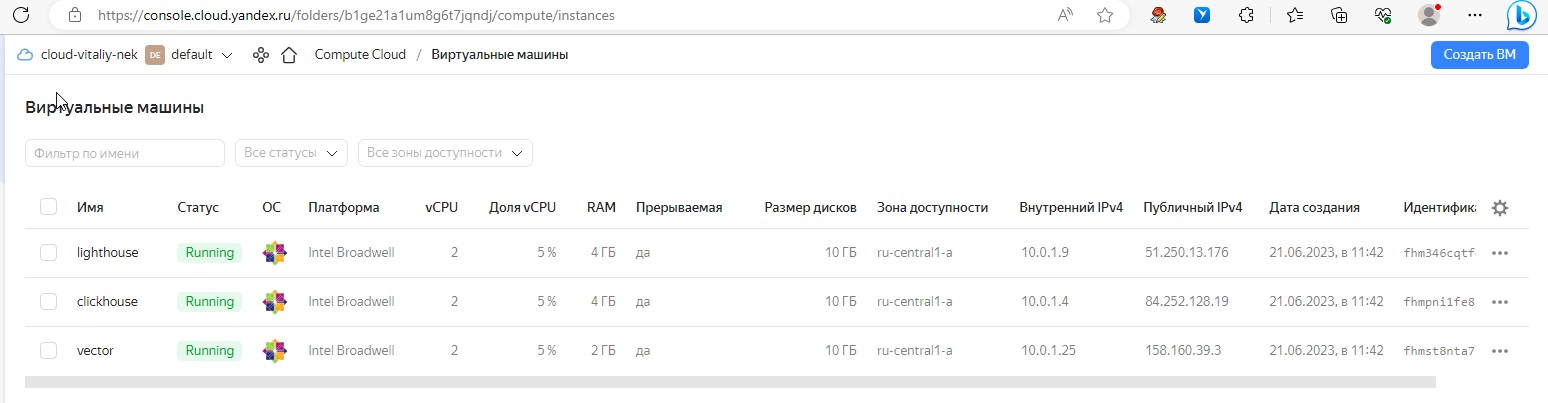
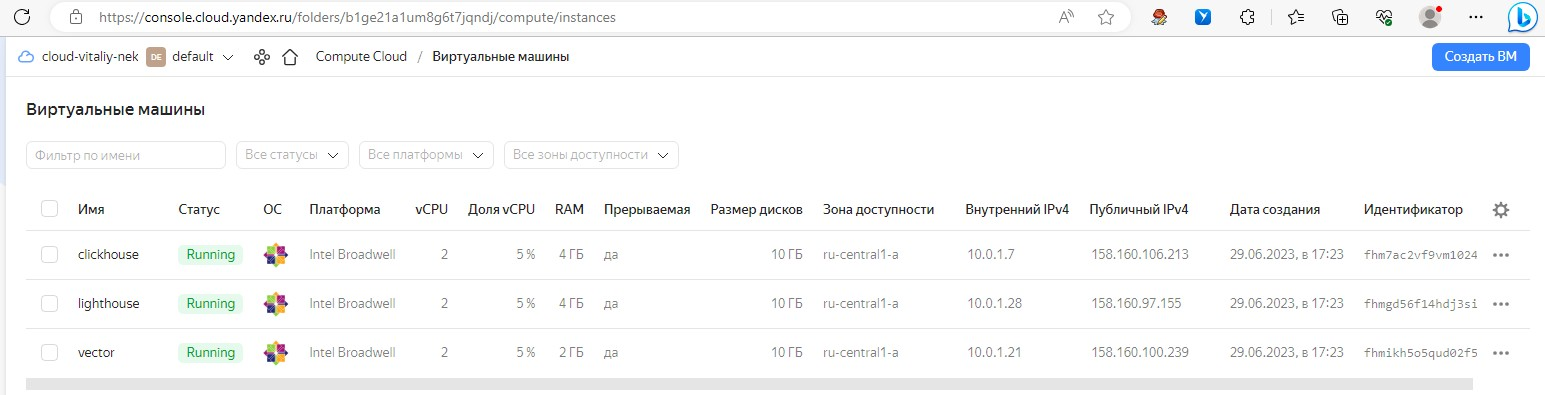
08-ansible-03-yandex

diff --git a/bloc-8/8.3-ansible/8.3-ansible.md b/bloc-8/8.3-ansible/8.3-ansible.md
@@ -18,225 +18,161 @@
 ---
 clickhouse:
   hosts:
-    clickhouse1:
-      ansible_host: 51.250.12.227
+    clickhouse-01:
+      ansible_host: 158.160.106.213
       ansible_user: centos
 
 lighthouse:
   hosts:
-    lighthouse1:
-      ansible_host: 158.160.33.39
+    lighthouse-01:
+      ansible_host: 158.160.97.155
       ansible_user: centos
 
 vector:
   hosts:
-    vector1:
-      ansible_host: 84.201.131.143
+    vector-01:
+      ansible_host: 158.160.100.239
       ansible_user: centos
 
 ```
 5. Запустите `ansible-lint site.yml` и исправьте ошибки, если они есть.
 6. Попробуйте запустить playbook на этом окружении с флагом `--check`.
-```bash 
-➜  playbook git:(main) ✗ ansible-playbook -i inventory/prod.yml site.yml
+```yml
+ ansible-playbook -i inventory/prod.yml site.yml -bK --check
+BECOME password:
 
 PLAY [Install Clickhouse] **************************************************************************
 
 TASK [Gathering Facts] *****************************************************************************
-The authenticity of host '84.252.128.19 (84.252.128.19)' can't be established.
-ECDSA key fingerprint is SHA256:1NH7i3gw0+jaVJQcITFTVNFngKJZHm/G67p07VO1QMM.
+The authenticity of host '158.160.106.213 (158.160.106.213)' can't be established.
+ECDSA key fingerprint is SHA256://qbg8je8a3iL1A2PMjFRAvEhr11ymxgWCK+hYxVGrU.
 Are you sure you want to continue connecting (yes/no/[fingerprint])? yes
-ok: [clickhouse1]
+ok: [clickhouse-01] 
 
 TASK [Get clickhouse distrib] **********************************************************************
-changed: [clickhouse1] => (item=clickhouse-client)
-changed: [clickhouse1] => (item=clickhouse-server)
-failed: [clickhouse1] (item=clickhouse-common-static) => {"ansible_loop_var": "item", "changed": false, "dest": "./clickhouse-common-static-22.3.3.44.rpm", "elapsed": 0, "item": "clickhouse-common-static", "msg": "Request failed", "response": "HTTP Error 404: Not Found", "status_code": 404, "url": "https://packages.clickhouse.com/rpm/stable/clickhouse-common-static-22.3.3.44.noarch.rpm"}
+changed: [clickhouse-01] => (item=clickhouse-client)
+changed: [clickhouse-01] => (item=clickhouse-server)
+failed: [clickhouse-01] (item=clickhouse-common-static) => {"ansible_loop_var": "item", "changed": false, "dest": "./clickhouse-common-static-22.3.3.44.rpm", "elapsed": 0, "item": "clickhouse-common-static", "msg": "Request failed", "response": "HTTP Error 404: Not Found", "status_code": 404, "url": "https://packages.clickhouse.com/rpm/stable/clickhouse-common-static-22.3.3.44.noarch.rpm"}
 
-TASK [Get clickhouse distrib1] *********************************************************************
-changed: [clickhouse1]
+TASK [Get clickhouse distrib] **********************************************************************
+changed: [clickhouse-01]
 
 TASK [Install clickhouse packages] *****************************************************************
-changed: [clickhouse1]
+changed: [clickhouse-01]
 
 TASK [Flush handlers] ******************************************************************************
 
 RUNNING HANDLER [Start clickhouse service] *********************************************************
-changed: [clickhouse1]
+changed: [clickhouse-01]
 
 TASK [Create database] *****************************************************************************
-changed: [clickhouse1]
+changed: [clickhouse-01]
+
+TASK [Create table] ********************************************************************************
+ok: [clickhouse-01]
+
+TASK [Create clickhouse-server config] *************************************************************
+changed: [clickhouse-01]
+
+TASK [ch-server restart] ***************************************************************************
+changed: [clickhouse-01]
 
 PLAY [Install Vector] ******************************************************************************
 
 TASK [Gathering Facts] *****************************************************************************
-ok: [vector1]
+The authenticity of host '158.160.100.239 (158.160.100.239)' can't be established.
+ECDSA key fingerprint is SHA256:jkXcEdvHy09luOrvy/1K2yHYeIzMDRk4uGVslhgJmhw.
+Are you sure you want to continue connecting (yes/no/[fingerprint])? yes
+ok: [vector-01]
 
 TASK [Get package vector] **************************************************************************
-changed: [vector1]
+changed: [vector-01]
 
 TASK [Install vector package] **********************************************************************
-changed: [vector1]
+changed: [vector-01]
 
 TASK [Vector config file] **************************************************************************
-changed: [vector1]
+changed: [vector-01]
 
 TASK [Vector systemd service file] *****************************************************************
-changed: [vector1]
+changed: [vector-01]
+
+TASK [Add epel-release repo] ***********************************************************************
+changed: [vector-01]
+
+TASK [Install nginx] *******************************************************************************
+changed: [vector-01]
+
+TASK [Create nginx config] *************************************************************************
+changed: [vector-01]
+
+TASK [Start NGiNX] *********************************************************************************
+changed: [vector-01]
+
+RUNNING HANDLER [Start Vector service] *************************************************************
+changed: [vector-01]
 
 PLAY [Install nginx] *******************************************************************************
 
 TASK [Gathering Facts] *****************************************************************************
-ok: [lighthouse1]
+The authenticity of host '158.160.97.155 (158.160.97.155)' can't be established.
+ECDSA key fingerprint is SHA256:7rQ6RctRTDuRS9Pkcluvu/flOQuXOaOPAnY7sASOQEA.
+Are you sure you want to continue connecting (yes/no/[fingerprint])? yes
+ok: [lighthouse-01]
 
 TASK [Install epel-release] ************************************************************************
-changed: [lighthouse1]
+changed: [lighthouse-01]
 
 TASK [Install nginx] *******************************************************************************
-changed: [lighthouse1]
-
-TASK [Create nginx config] *************************************************************************
-changed: [lighthouse1]
+changed: [lighthouse-01]
 
 PLAY [Install lighthouse] **************************************************************************
 
 TASK [Gathering Facts] *****************************************************************************
-ok: [lighthouse1]
+ok: [lighthouse-01]
 
 TASK [Lighthouse | Install git] ********************************************************************
-changed: [lighthouse1]
+changed: [lighthouse-01]
 
 TASK [Lighthouse | Clone repository] ***************************************************************
-changed: [lighthouse1]
+changed: [lighthouse-01]
 
 TASK [Create Lighthouse config] ********************************************************************
-changed: [lighthouse1]
+changed: [lighthouse-01]
 
-RUNNING HANDLER [nginx reload] *********************************************************************
-changed: [lighthouse1]
+RUNNING HANDLER [nginx restarted] ******************************************************************
+changed: [lighthouse-01]
 
 PLAY RECAP *****************************************************************************************
-clickhouse1                : ok=5    changed=4    unreachable=0    failed=0    skipped=0    rescued=1    ignored=0
-lighthouse1                : ok=11    changed=9    unreachable=0    failed=0    skipped=0    rescued=0    ignored=0
-vector1                    : ok=6    changed=5    unreachable=0    failed=0    skipped=0    rescued=0    ignored=0
+clickhouse-01              : ok=8    changed=6    unreachable=0    failed=0    skipped=0    rescued=1    ignored=0
+lighthouse-01              : ok=8    changed=6    unreachable=0    failed=0    skipped=0    rescued=0    ignored=0
+vector-01                  : ok=10   changed=9    unreachable=0    failed=0    skipped=0    rescued=0    ignored=0
 ```
 
 7. Запустите playbook на `prod.yml` окружении с флагом `--diff`. Убедитесь, что изменения на системе произведены.
 8. Повторно запустите playbook с флагом `--diff` и убедитесь, что playbook идемпотентен.
 
-```
- playbook git:(main) ✗ ansible-playbook -i inventory/prod.yml site.yml --diff
 
-PLAY [Install Clickhouse] **************************************************************************
-
-TASK [Gathering Facts] *****************************************************************************
-ok: [clickhouse1]
-
-TASK [Get clickhouse distrib] **********************************************************************
-ok: [clickhouse1] => (item=clickhouse-client)
-ok: [clickhouse1] => (item=clickhouse-server)
-failed: [clickhouse1] (item=clickhouse-common-static) => {"ansible_loop_var": "item", "changed": false, "dest": "./clickhouse-common-static-22.3.3.44.rpm", "elapsed": 0, "gid": 1000, "group": "centos", "item": "clickhouse-common-static", "mode": "0664", "msg": "Request failed", "owner": "centos", "response": "HTTP Error 404: Not Found", "secontext": "unconfined_u:object_r:user_home_t:s0", "size": 246310036, "state": "file", "status_code": 404, "uid": 1000, "url": "https://packages.clickhouse.com/rpm/stable/clickhouse-common-static-22.3.3.44.noarch.rpm"}
-
-TASK [Get clickhouse distrib1] *********************************************************************
-ok: [clickhouse1]
-
-TASK [Install clickhouse packages] *****************************************************************
-ok: [clickhouse1]
-
-TASK [Flush handlers] ******************************************************************************
-
-TASK [Create database] *****************************************************************************
-ok: [clickhouse1]
-
-PLAY [Install Vector] ******************************************************************************
-
-TASK [Gathering Facts] *****************************************************************************
-ok: [vector1]
-
-TASK [Get package vector] **************************************************************************
-ok: [vector1]
-
-TASK [Install vector package] **********************************************************************
-ok: [vector1]
-
-TASK [Vector config file] **************************************************************************
-ok: [vector1]
-
-TASK [Vector systemd service file] *****************************************************************
-ok: [vector1]
-
-PLAY [Install nginx] *******************************************************************************
-
-TASK [Gathering Facts] *****************************************************************************
-ok: [lighthouse1]
-
-TASK [Install epel-release] ************************************************************************
-ok: [lighthouse1]
-
-TASK [Install nginx] *******************************************************************************
-ok: [lighthouse1]
-
-TASK [Create nginx config] *************************************************************************
-ok: [lighthouse1]
-
-PLAY [Install lighthouse] **************************************************************************
-
-TASK [Gathering Facts] *****************************************************************************
-ok: [lighthouse1]
-
-TASK [Lighthouse | Install git] ********************************************************************
-ok: [lighthouse1]
-
-TASK [Lighthouse | Clone repository] ***************************************************************
-ok: [lighthouse1]
-
-TASK [Create Lighthouse config] ********************************************************************
-ok: [lighthouse1]
-
+```yml
+ansible-playbook -i inventory/prod.yml site.yml -bK --diff
+BECOME password:
+ .......
 PLAY RECAP *****************************************************************************************
-clickhouse1                : ok=4    changed=0    unreachable=0    failed=0    skipped=0    rescued=1    ignored=0
-lighthouse1                : ok=8    changed=0    unreachable=0    failed=0    skipped=0    rescued=0    ignored=0
-vector1                    : ok=5    changed=0    unreachable=0    failed=0    skipped=0    rescued=0    ignored=0
-
+clickhouse-01              : ok=7    changed=1    unreachable=0    failed=0    skipped=0    rescued=1    ignored=0
+lighthouse-01              : ok=7    changed=0    unreachable=0    failed=0    skipped=0    rescued=0    ignored=0
+vector-01                  : ok=10   changed=2    unreachable=0    failed=0    skipped=0    rescued=0    ignored=0 
+ 
+перезапуск служб всегда показывают changed
+playbook идемпотентен
 ----------------------
-
-ssh centos@84.252.128.19
-[centos@fhmpni1fe8jvbmm0499c ~]$ clickhouse-client -h 127.0.0.1
-ClickHouse client version 22.3.3.44 (official build).
-Connecting to 127.0.0.1:9000 as user default.
-Connected to ClickHouse server version 22.3.3 revision 54455.
-
-fhmpni1fe8jvbmm0499c.auto.internal :)
-
---------------------
-
- ssh centos@158.160.39.3
-[centos@fhmst8nta7bv7657sbcs ~]$ vector --version
-vector 0.30.0 (x86_64-unknown-linux-gnu 38c3f0b 2023-05-22 17:38:48.655488673)
-
- systemctl status vector
-● vector.service - Vector
-   Loaded: loaded (/usr/lib/systemd/system/vector.service; disabled; vendor preset: disabled)
-   Active: active (running) since Ср 2023-06-21 09:23:37 UTC; 6min ago
-     Docs: https://vector.dev
- Main PID: 18331 (vector)
-   CGroup: /system.slice/vector.service
-           └─18331 /usr/bin/vector --config /etc/vector/vector.yml
 ```
+
+- Логи собираються и передаються в Clickhouse
 ![](img/8.3-lh.jpg)
 9. Подготовьте README.md-файл по своему playbook. В нём должно быть описано: что делает playbook, какие у него есть параметры и теги.
-```
-1. site.yml Устанавливает на хосты clickhouse и vector nginx lighthouse
-2. вся инфракструктура поднимается terraform
-3. terraform создает файл с хостами и кладет в inventory/prod.yml
-3. group_vars/lighthouse/lighthouse.yml Переменные для lighthouse
-4. group_vars/clickhouse/clickhose.yml Переменные по версиям и устанавливаемому ПО от clickhouse
-5. group_vars/vector/vector.yml Переменная по версии Vector
-6. template/nginx.conf.j2 файл конфиг для вебсервера nginx
-7. template/nginx_lighthouse.j2 конфиг для lighthouse
-8. template/vector.yml.j2 конфиг vector
-9. template/vector.service.j2 конфиг для systemd
-```
+
+[README.MD](playbook/README.MD)
+
 10. Готовый playbook выложите в свой репозиторий, поставьте тег `08-ansible-03-yandex` на фиксирующий коммит, в ответ предоставьте ссылку на него.
 
 ---

diff --git a/bloc-8/8.3-ansible/playbook/README.MD b/bloc-8/8.3-ansible/playbook/README.MD
@@ -1,4 +1,6 @@
 ###Описание Playbook
+## Инфаструктура задается terraform и им же создаеться файл inventory/prod.yml
+
 1. PLAY Install Clickhouse
 на хосте clickhouse-01
 tasks: Get clickhouse distrib
@@ -9,8 +11,6 @@ tasks: Create database
 - создает database с именем logs
 tasks: Create table
 - создает в database таблицу с именем vector_logs
-tasks:  Open port 8123
-- открываем порт 8123 
 tasks: Create clickhouse-server config
 - копируем конфиг для clickhouse-server из templates чтобы слушать на всех адресах
 tasks: ch-server restart
